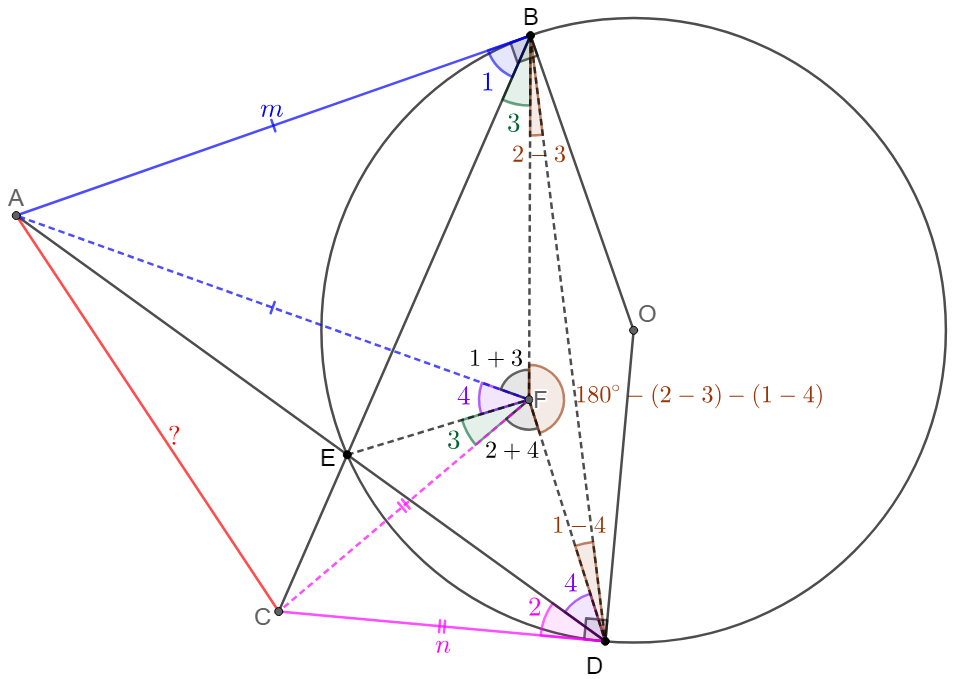
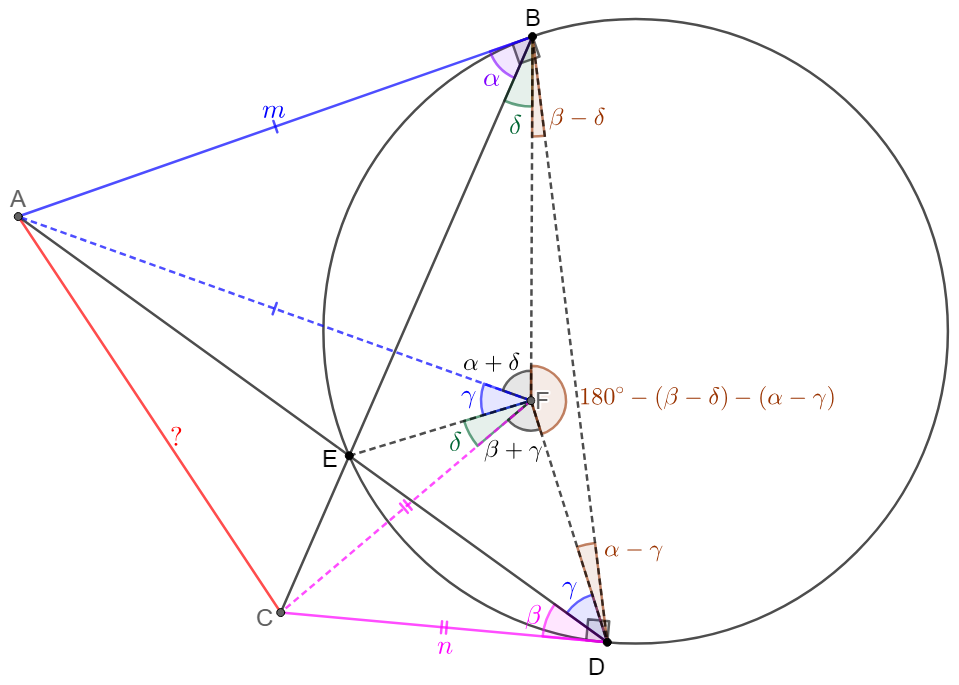
revise post

diff --git a/_posts/2024-01-02-wo.md b/_posts/2024-01-02-wo.md
@@ -30,18 +30,18 @@ $$
 
 **Solve 2:**
 
-![image-20240228230015230](/assets/images/2024/image-20240228195939223.png)
+![image-20240229040902018](/assets/images/2024/image-20240228195939223.png)
 $$
 \begin{multline}
 \shoveleft \text{Let }F \text{ be a point in the circle such that }CF=CD, AF=AB\\
-\shoveleft \text{Let }\angle{ABC}=\angle{1}=\angle{BDE}, \angle{ADC}=\angle{2}=\angle{DBE}\\
-\shoveleft \text{Let }\angle{CFE}=\angle{3},CD=CF=CE\cdot CB \implies \angle{AFB}=\angle{1}+\angle{3}\\
-\shoveleft \implies \angle{EBF}=\angle{3}\implies \angle{DBF}=\angle{2}-\angle{3}\\
-\shoveleft \text{Let }\angle{AFE}=\angle{4},AB=AF=AE\cdot AD \implies \angle{CFD}=\angle{2}+\angle{4}\\
-\shoveleft \implies \angle{EDF}=\angle{4}\implies \angle{BDF}=\angle{1}-\angle{4}\\
-\shoveleft \implies \angle{BD}=180^{\circ}-(\angle{2}-\angle{3})-(\angle{1}-\angle{4})\\
-\shoveleft \implies 360^{\circ}=\angle{3}+\angle{4}+(\angle{1}+\angle{3})+(\angle{2}+\angle{4})+180^{\circ}-(\angle{2}-\angle{3})-(\angle{1}-\angle{4})\\
-\shoveleft =180^{\circ}+3(\angle{3}+\angle{4})\implies \angle{3}+\angle{4}=\angle{AFC}=60^{\circ}\\
+\shoveleft \text{Let }\angle{ABC}=\angle{\alpha}=\angle{BDE}, \angle{ADC}=\angle{\beta}=\angle{DBE}\\
+\shoveleft \text{Let }\angle{CFE}=\angle{\delta},CD=CF=CE\cdot CB \implies \angle{AFB}=\angle{\alpha}+\angle{\delta}\\
+\shoveleft \implies \angle{EBF}=\angle{\delta}\implies \angle{DBF}=\angle{\beta}-\angle{\delta}\\
+\shoveleft \text{Let }\angle{AFE}=\angle{\gamma},AB=AF=AE\cdot AD \implies \angle{CFD}=\angle{\beta}+\angle{\gamma}\\
+\shoveleft \implies \angle{EDF}=\angle{\gamma}\implies \angle{BDF}=\angle{\alpha}-\angle{\gamma}\\
+\shoveleft \implies \angle{BD}=180^{\circ}-(\angle{\beta}-\angle{\delta})-(\angle{\alpha}-\angle{4})\\
+\shoveleft \implies 360^{\circ}=\angle{\delta}+\angle{\gamma}+(\angle{\alpha}+\angle{\delta})+(\angle{\beta}+\angle{\gamma})+180^{\circ}-(\angle{\beta}-\angle{\delta})-(\angle{\alpha}-\angle{\gamma})\\
+\shoveleft =180^{\circ}+3(\angle{\delta}+\angle{\gamma})\implies \angle{\delta}+\angle{\gamma}=\angle{AFC}=60^{\circ}\\
 \shoveleft \implies cos(\angle{AFC})=\dfrac{AF^2+CF^2-AC^2}{2AF\cdot CF}=\dfrac{1}{2}\implies AC^2=AB^2+CD^2-AB\cdot CD
 \end{multline}
 $$
